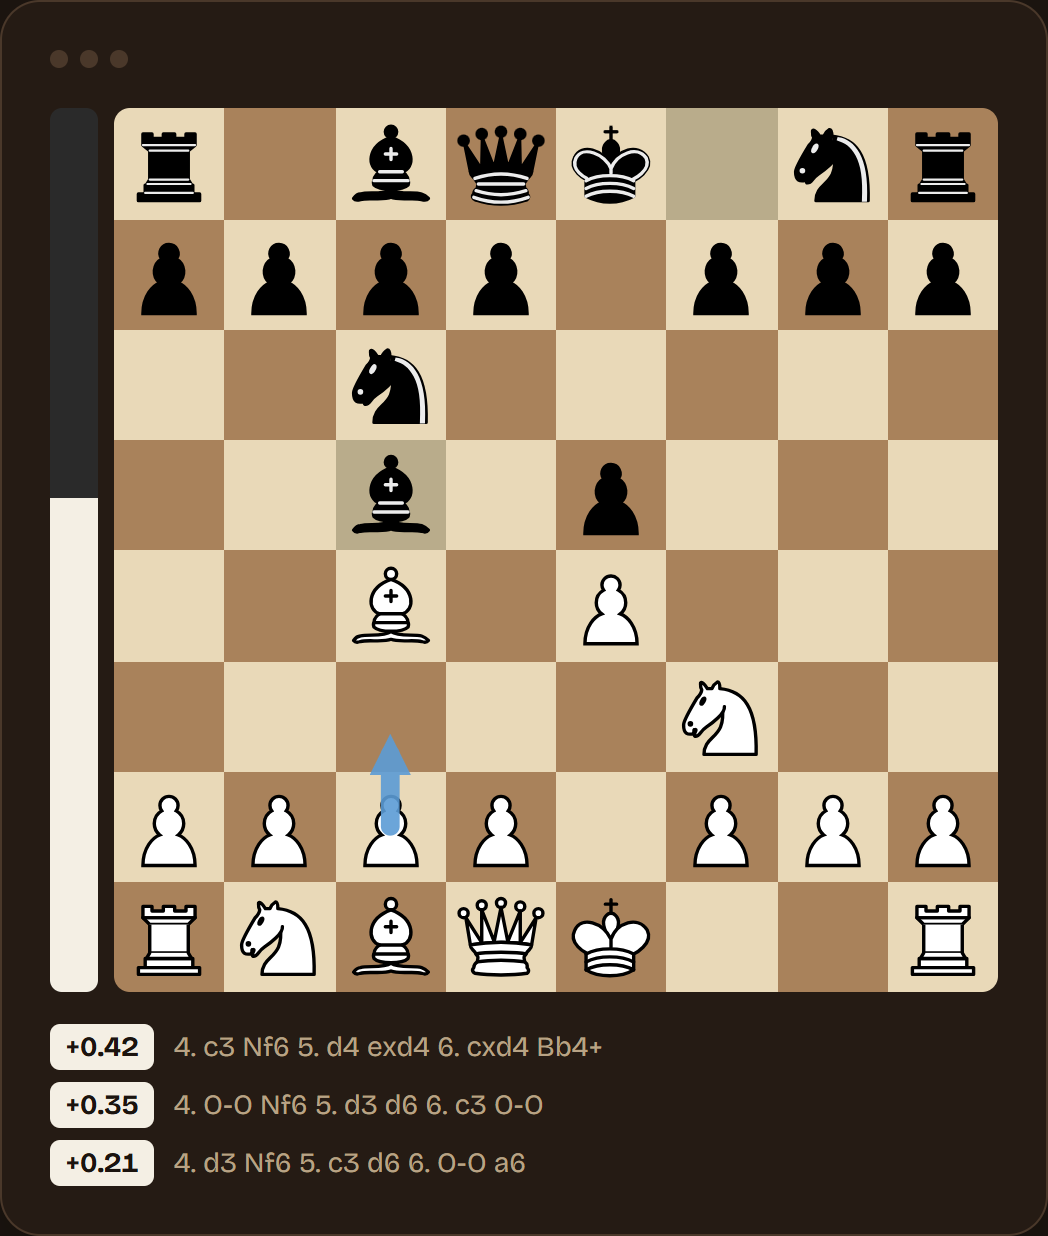
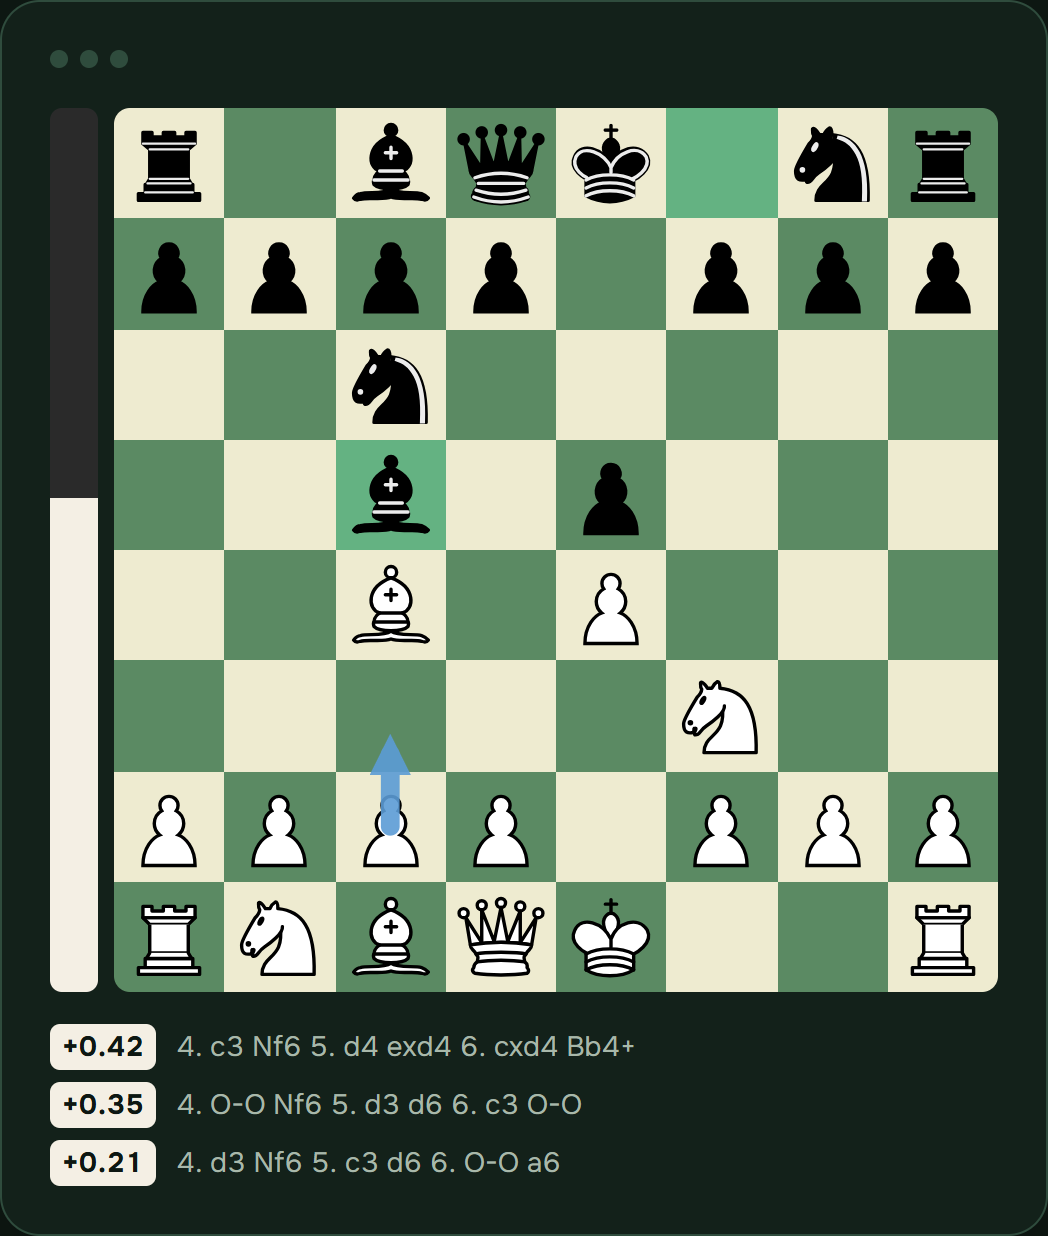
Update README for the green rebrand and new features
New banner, logo and screenshots in the green theme; new tagline;
Lite Stockfish as the default; today's session, opening training and
Fischer's voice.

diff --git a/README.md b/README.md
@@ -4,17 +4,17 @@
 
 <br><br>
 
-**Free chess game counter and Stockfish coach for the web.**
+**Play there. Improve here.**
 
-Shohmot follows your [Chess.com](https://www.chess.com) and [Lichess](https://lichess.org) accounts, tells you how many games you played today and how many you lost, then lets Stockfish turn your mistakes into training. All of the engine work happens in your browser.
+Shohmot follows your [Chess.com](https://www.chess.com) and [Lichess](https://lichess.org) accounts, counts today's games, then lets Stockfish and a coach named Fischer turn your mistakes into training. All of the engine work happens in your browser.
 
 <br>
 
 ![Astro](https://img.shields.io/badge/Astro-7-ff5d01?style=flat-square&logo=astro&logoColor=white)
 ![Node](https://img.shields.io/badge/Node-22.23%2B-5fa04e?style=flat-square&logo=nodedotjs&logoColor=white)
-![Stockfish](https://img.shields.io/badge/Stockfish-19-c6ceb2?style=flat-square&labelColor=1d2417)
+![Stockfish](https://img.shields.io/badge/Stockfish-19-6cd49a?style=flat-square&labelColor=0d1712)
 ![Deploys on](https://img.shields.io/badge/Deploys_on-Vercel-000000?style=flat-square&logo=vercel&logoColor=white)
-![Free](https://img.shields.io/badge/Price-Free-a6c97a?style=flat-square&labelColor=1d2417)
+![Free](https://img.shields.io/badge/Price-Free-6cd49a?style=flat-square&labelColor=0d1712)
 
 [Quick start](#-quick-start) · [Features](#-features) · [How it works](#-how-the-review-works) · [Deploy](#-deploy) · [Docs](docs/DETAILS.md)
 
@@ -79,6 +79,10 @@ Paste a Lichess link or any PGN and get a full Stockfish 19 review: accuracy for
 
 After every game Shohmot says "You lost to X, here's what to work on" and lists your worst moves. Every mistake becomes a position to solve, scheduled with spaced repetition (1, 3, 7 and 21 days), so you meet it again just before you'd forget it.
 
+**Today's session:** Fischer lines up your five newest games with mistakes and walks you through them one by one, with a focus timer and a day-by-day streak.
+
+**Opening training:** drill about 3,900 named opening lines from Lichess's list, every variation in a family, from either side. Study a line, then play it from memory. It's free and has no daily limit.
+
 <br clear="right">
 
 ### Brilliant moves
@@ -119,7 +123,7 @@ Set up any position and play it out against Stockfish at six strengths, from Beg
 
 Fischer sits at the top of every review. It breathes, blinks, moves its mouth in time with its voice, and reacts to your moves: a nod for good ones, a hop for great ones, a shake for mistakes. It walks you through the key moments of the game and gives you a short lesson for each kind of mistake.
 
-Set `ANTHROPIC_API_KEY` and Fischer becomes an AI agent powered by Claude. It leads the review moment by moment, moves the board itself, and answers your questions about the game. It is grounded in Stockfish's numbers and told not to invent analysis. Without a key, Fischer still steps through the game using the review's own notes. Its voice is off until you turn it on.
+Set `ANTHROPIC_API_KEY` and Fischer becomes an AI agent powered by Claude. It leads the review moment by moment, moves the board itself, and answers your questions about the game. It is grounded in Stockfish's numbers and told not to invent analysis. Without a key, Fischer still steps through the game using the review's own notes. Its voice is off until you turn it on, and with an `ELEVENLABS_API_KEY` it speaks in a deep, natural man's voice instead of the browser's.
 
 <br clear="left">
 
